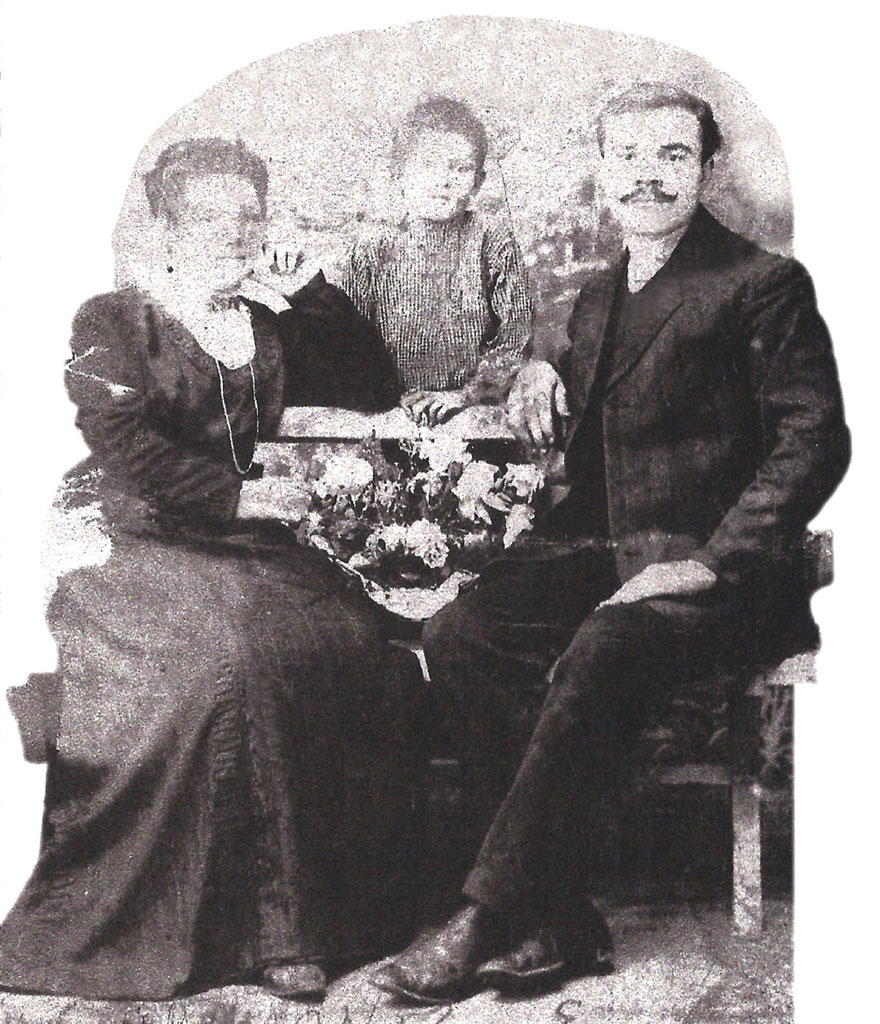
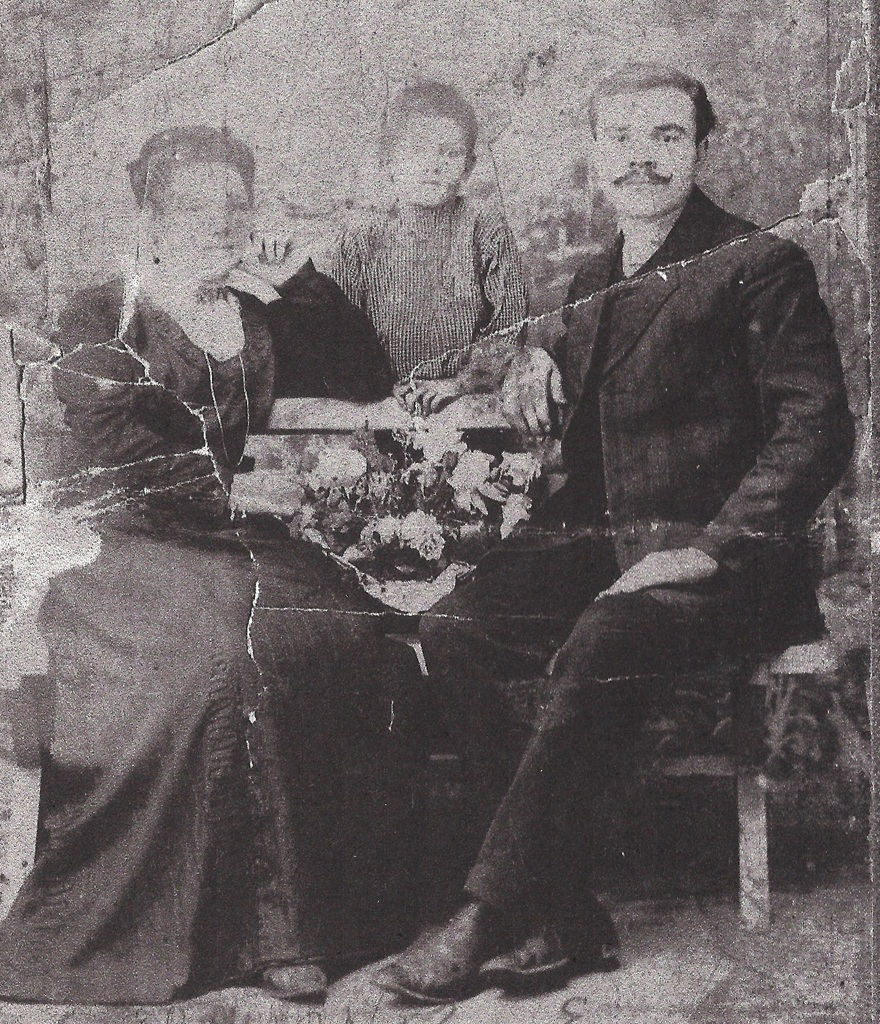
ksi - some ai-retouched photos

diff --git a/fabrika/ksi/Kornienko-Ivan-Andreevich-1.html b/fabrika/ksi/Kornienko-Ivan-Andreevich-1.html
@@ -29,7 +29,7 @@
    <h1> Краткая биография моего отца Корниенко Ивана Андреевича </h1>
 
    <p class="right">
-    <a href="img/1927-Корниенко-Иван-Андреевич.jpg">
+    <a href="img/1927-КорниенкоИА-портрет-ai.jpg">
      <img height="266" src="img/1927-KIA-200.jpg" width="200"> </a> </p>
 
    <h2> <i> Корниенко С.И. </i> </h2>
@@ -425,9 +425,9 @@
      ► </a> </p>
 
    <p class="center" id="photo01">
-    <a href="img/1_1910.jpg">
+    <a href="img/1_1910-ai.jpg">
      <img alt="Мальчик Ваня со старшей сестрой
-      Феней и её мужем, примерно 1910 год" height="758" src="img/1_1910_600.jpg" width="600"> </a> </p>
+      Феней и её мужем, примерно 1910 год" height="758" src="img/1_1910.jpg" width="600"> </a> </p>
 
    <p class="center" id="photo02">
     <a href="img/2_ken.jpg">
@@ -435,7 +435,7 @@
       Никифоровны 20 сентября 1908 года" height="480" src="img/2_ken_600.jpg" width="600"> </a> </p>
 
    <p class="center" id="photo03">
-    <a href="img/1927-КорниенкоИА-портрет.jpg">
+    <a href="img/1927-КорниенкоИА-портрет-ai.jpg">
      <img alt="Фотография Ивана
       Андреевича примерно 1927 года" height="818" src="img/1927-КорниенкоИА-600.jpg" width="582"> </a> </p>
 

diff --git a/fabrika/ksi/KornienkoIvanAndreevich_short.html b/fabrika/ksi/KornienkoIvanAndreevich_short.html
@@ -29,7 +29,7 @@
    <h1> Краткая биография моего отца Корниенко Ивана Андреевича </h1>
 
    <p class="right">
-    <a href="img/1927-Корниенко-Иван-Андреевич.jpg">
+    <a href="img/1927-КорниенкоИА-портрет-ai.jpg">
      <img height="266" src="img/1927-KIA-200.jpg" width="200"> </a> </p>
 
    <h2> <i> Корниенко С.И. </i> </h2>
@@ -414,9 +414,9 @@
      ► </a> </p>
 
    <p class="center" id="photo01">
-    <a href="img/1_1910.jpg">
+    <a href="img/1_1910-ai.jpg">
      <img alt="Мальчик Ваня со старшей сестрой
-      Феней и её мужем, примерно 1910 год" height="758" src="img/1_1910_600.jpg" width="600"> </a> </p>
+      Феней и её мужем, примерно 1910 год" height="758" src="img/1_1910.jpg" width="600"> </a> </p>
 
    <p class="center" id="photo02">
     <a href="img/2_ken.jpg">
@@ -424,7 +424,7 @@
       Никифоровны 20 сентября 1908 года" height="480" src="img/2_ken_600.jpg" width="600"> </a> </p>
 
    <p class="center" id="photo03">
-    <a href="img/1927-КорниенкоИА-портрет.jpg">
+    <a href="img/1927-КорниенкоИА-портрет-ai.jpg">
      <img alt="Фотография Ивана
       Андреевича примерно 1927 года" height="818" src="img/1927-КорниенкоИА-600.jpg" width="582"> </a> </p>
 

diff --git a/fabrika/ksi/Kornienko-Ivan-Andreevich-2.html b/fabrika/ksi/Kornienko-Ivan-Andreevich-2.html
@@ -28,7 +28,7 @@
     <br> моего отца Корниенко Ивана Андреевича. </h1>
 
    <p class="right">
-    <a href="img/1927-Корниенко-Иван-Андреевич.jpg">
+    <a href="img/1927-КорниенкоИА-портрет-ai.jpg">
      <img height="266" src="img/1927-KIA-200.jpg" width="200"> </a> </p>
 
    <h4> Корниенко С.И. </h4>
@@ -1049,13 +1049,13 @@
 
    <div class="w700">
     <p class="rightc">
-     <a href="img/1927-Корниенко-Иван-Андреевич.jpg">
+     <a href="img/1927-КорниенкоИА-портрет-ai.jpg">
       <img height="266" src="img/1927-KIA-200.jpg" width="200"> </a>
      <br> Иван Корниенко </p>
 
     <p class="leftc">
-     <a href="img/1940-Потехин-Михаил.jpg">
-      <img height="267" src="img/1940-Потехин-Михаил-200.jpg" width="200"> </a>
+     <a href="img/1940-Потехин-Михаил-ai.jpg">
+      <img height="267" src="img/1940-Потехин-Михаил.jpg" width="200"> </a>
      <br> Михаил Потехин </p>
    </div>
 
